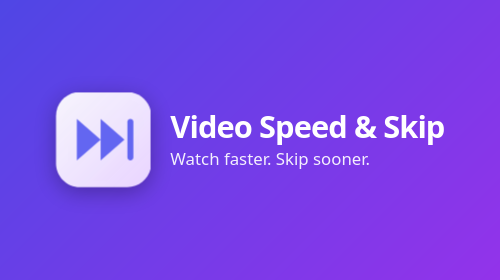
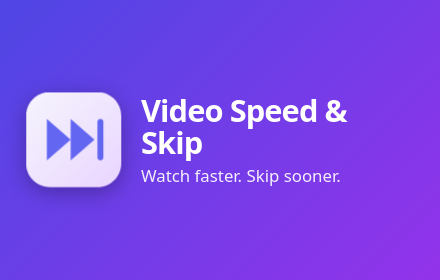
Fix the small promo tile size (440x280) and test the size of every store image
Firefox will not make a window narrower than ~500px, so the tile came out 500x280.
The promo page now draws a #tile of the exact size and the script photographs that element.

Changed region(s): [[0.0295, 0.3143, 0.8864, 0.6857]]

diff --git a/tests/store-promo.html b/tests/store-promo.html
@@ -1,19 +1,33 @@
 <!doctype html>
 <meta charset="utf-8">
 <title>Store promo image</title>
-<!-- Used by tests/e2e/store_screenshots.py to draw the promo tiles (440x280 and 1400x560). Everything scales with the height. -->
+<!-- Used by tests/e2e/store_screenshots.py to draw the promo tiles. The #tile element has the exact pixel size
+     asked for in the query (?w=440&h=280) and everything inside scales with its height; the script photographs
+     that element, so the window size does not matter. -->
 <style>
-  html, body { margin: 0; height: 100%; overflow: hidden; }
-  body { display: flex; align-items: center; justify-content: center; gap: 7vh; color: #fff; --u: 1vh;
-         background: linear-gradient(135deg, #4f46e5, #9333ea); font-family: system-ui, -apple-system, "Segoe UI", Roboto, sans-serif; }
-  svg { width: 34vh; height: 34vh; flex: none; filter: drop-shadow(0 2vh 4vh rgba(0,0,0,.3)); }
-  h1 { margin: 0 0 2vh; font-size: 11vh; line-height: 1.05; letter-spacing: -.03em; }
-  p { margin: 0; font-size: 6vh; line-height: 1.25; opacity: .92; }
-  .copy { max-width: 62vw; }
+  html, body { margin: 0; background: #1e1b4b; }
+  #tile { display: flex; align-items: center; justify-content: center; overflow: hidden; color: #fff; box-sizing: border-box;
+          background: linear-gradient(135deg, #4f46e5, #9333ea); font-family: system-ui, -apple-system, "Segoe UI", Roboto, sans-serif; }
+  svg { flex: none; filter: drop-shadow(0 calc(var(--h) * .02) calc(var(--h) * .04) rgba(0,0,0,.3)); }
+  h1 { margin: 0 0 calc(var(--h) * .02); line-height: 1.05; letter-spacing: -.03em; }
+  p { margin: 0; line-height: 1.25; opacity: .92; }
 </style>
-<svg viewBox="0 0 32 32" aria-hidden="true">
-  <defs><linearGradient id="g" x1="0" y1="0" x2="1" y2="1"><stop offset="0" stop-color="#fff" stop-opacity=".95"/><stop offset="1" stop-color="#e9d5ff"/></linearGradient></defs>
-  <rect width="32" height="32" rx="8" fill="url(#g)"/>
-  <path d="M7 9v14l8-7zM15 9v14l8-7z" fill="#6366f1"/><rect x="24" y="9" width="2" height="14" rx="1" fill="#6366f1"/>
-</svg>
-<div class="copy"><h1>Video Speed &amp; Skip</h1><p>Watch faster. Skip sooner.</p></div>
+<div id="tile">
+  <svg viewBox="0 0 32 32" aria-hidden="true">
+    <defs><linearGradient id="g" x1="0" y1="0" x2="1" y2="1"><stop offset="0" stop-color="#fff" stop-opacity=".95"/><stop offset="1" stop-color="#e9d5ff"/></linearGradient></defs>
+    <rect width="32" height="32" rx="8" fill="url(#g)"/>
+    <path d="M7 9v14l8-7zM15 9v14l8-7z" fill="#6366f1"/><rect x="24" y="9" width="2" height="14" rx="1" fill="#6366f1"/>
+  </svg>
+  <div id="copy"><h1>Video Speed &amp; Skip</h1><p>Watch faster. Skip sooner.</p></div>
+</div>
+<script>
+  const q = new URLSearchParams(location.search);
+  const w = Number(q.get('w')) || 440, h = Number(q.get('h')) || 280;
+  const tile = document.getElementById('tile');
+  tile.style.cssText = `width:${w}px;height:${h}px;--h:${h}px;gap:${h * .07}px`;
+  const svg = tile.querySelector('svg');
+  svg.style.cssText = `width:${h * .34}px;height:${h * .34}px`;
+  tile.querySelector('h1').style.fontSize = h * .11 + 'px';
+  tile.querySelector('p').style.fontSize = h * .06 + 'px';
+  document.getElementById('copy').style.maxWidth = w * .62 + 'px';
+</script>

diff --git a/tests/test_package.py b/tests/test_package.py
@@ -94,6 +94,19 @@ class Package(unittest.TestCase):
             self.assertIn(needed, names)
         self.assertFalse([n for n in names if n.startswith(("dist/", "docs/store/screenshots/", ".git/"))])
 
+    def test_store_images_have_the_exact_sizes(self):
+        import struct
+
+        def size(path):
+            return struct.unpack(">II", path.read_bytes()[16:24])
+
+        store = ROOT / "docs" / "store"
+        for shot in (store / "screenshots").rglob("*.png"):
+            self.assertEqual(size(shot), (1280, 800), shot.relative_to(store))
+        self.assertEqual(size(store / "promo" / "small-440x280.png"), (440, 280))
+        self.assertEqual(size(store / "promo" / "marquee-1400x560.png"), (1400, 560))
+        self.assertEqual(len(list((store / "screenshots").rglob("*.png"))), 12)
+
     def test_no_remote_code_or_network_in_the_package(self):
         for f in (DIST / "chrome").rglob("*.js"):
             code = f.read_text()

diff --git a/tests/e2e/store_screenshots.py b/tests/e2e/store_screenshots.py
@@ -97,10 +97,10 @@ def main():
         promo = OUT.parent / "promo"
         promo.mkdir(parents=True, exist_ok=True)
         for name, (w, h) in {"small-440x280": (440, 280), "marquee-1400x560": (1400, 560)}.items():
-            ff.go(f"{SITE}/store-promo.html")
-            set_viewport(ff, w, h)
+            ff.size(1500, 800)  # bigger than the tile: only the element is photographed
+            ff.go(f"{SITE}/store-promo.html?w={w}&h={h}")
             time.sleep(0.8)
-            ff.shot(promo / f"{name}.png")
+            ff.shot_element("#tile", promo / f"{name}.png")
         print(f"promo tiles -> {promo.relative_to(ROOT)}")
     finally:
         ff.quit()

diff --git a/tests/e2e/ff.py b/tests/e2e/ff.py
@@ -124,6 +124,11 @@ class Firefox:
     def shot(self, path):
         pathlib.Path(path).write_bytes(base64.b64decode(call("GET", self.p("/screenshot"))))
 
+    def shot_element(self, selector, path):
+        element = call("POST", self.p("/element"), {"using": "css selector", "value": selector})
+        element_id = next(iter(element.values()))
+        pathlib.Path(path).write_bytes(base64.b64decode(call("GET", self.p(f"/element/{element_id}/screenshot"))))
+
     # ---- convenience ----
     def open_ext(self, page, w=1100, h=800):
         """Open an extension page inside the frame-host page and switch into the frame."""
